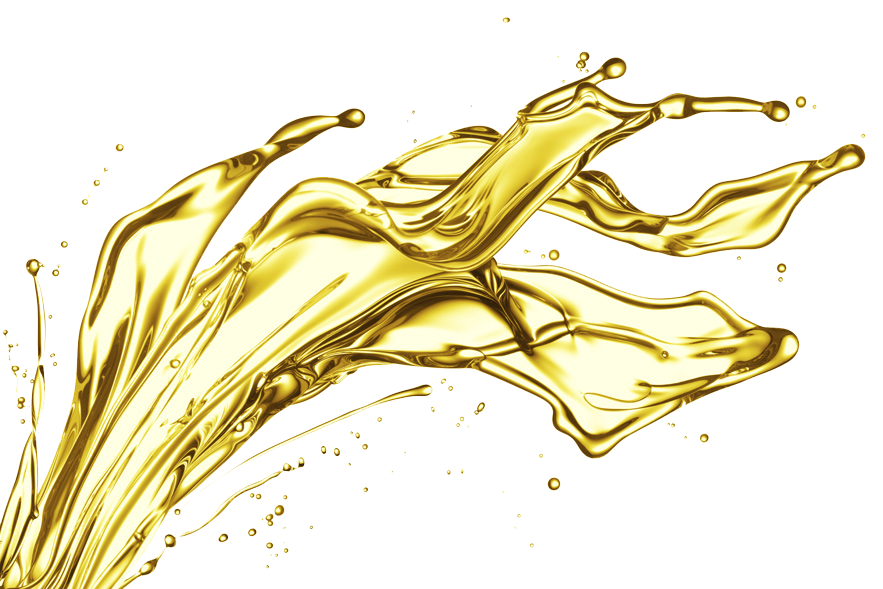
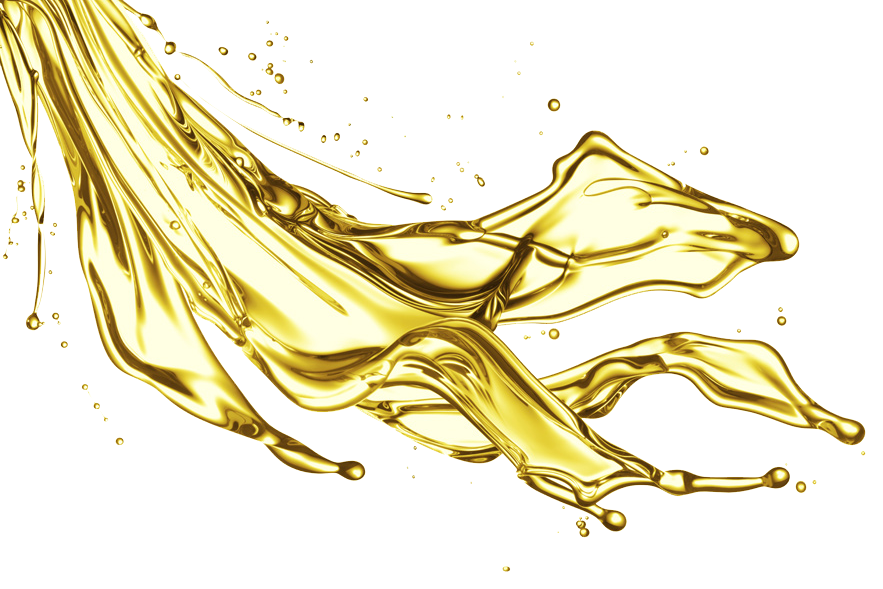
Frontend for auth pages done

diff --git a/app/(auth)/sign-up.tsx b/app/(auth)/sign-up.tsx
@@ -1,10 +1,63 @@
-import { View, Text, ScrollView } from 'react-native'
-import React from 'react'
+import { View, Text, ScrollView, Image } from 'react-native'
+import React, { useState } from 'react'
+import { top } from '@/assets'
+import InputField from '@/components/InputField'
+import CustomButton from '@/components/CustomButton'
+import { Link } from 'expo-router'
+import OAuth from '@/components/OAuth'
 
 const SignUp = () => {
+  const [form, setForm] = useState({
+    name: "",
+    email: "",
+    password: ""
+  })
+  const onSignUpPress = () => {
+
+  }
   return (
-    <ScrollView>
-      <Text>SignUp</Text>
+    <ScrollView className='flex bg-white' showsVerticalScrollIndicator={false}>
+      <View className='flex-1 bg-white'>
+        <View className='relative w-full h-[250px]'>
+          <Image 
+            source={top} 
+            className='z-0 w-full h-[250px]'
+          />
+          <Text className='text-xl font-semibold text-black absolute bottom-5 left-5'>Create Your Account</Text>
+        </View>
+        <View className='p-5'>
+          <InputField
+            label="Username"
+            placeholder="Enter your name"
+            value={form.name}
+            onChangeText={(v:string) => setForm({...form, name: v})}
+          />
+          <InputField
+            label="Email"
+            placeholder="Enter your email"
+            value={form.email}
+            onChangeText={(v:string) => setForm({...form, email: v})}
+          />
+          <InputField
+            label="Passwoord"
+            placeholder="Enter your password"
+            value={form.password}
+            onChangeText={(v:string) => setForm({...form, password: v})}
+            secureTextEntry={true}
+          />
+          <CustomButton 
+            title="Sign Up"
+            className='mt-6'
+            onPress={onSignUpPress}
+          />
+          <OAuth />
+          <Link href="/(auth)/sign-in" className='text-md text-center'>
+            <Text>Already have an account? </Text>
+            <Text className='text-outline'>Log In</Text>
+          </Link>
+        </View>
+        {/* Verification */}
+      </View>
     </ScrollView>
   )
 }

diff --git a/app/(auth)/sign-in.tsx b/app/(auth)/sign-in.tsx
@@ -1,11 +1,57 @@
-import { View, Text } from 'react-native'
-import React from 'react'
+import { View, Text, Image, ScrollView } from 'react-native'
+import React, { useState } from 'react'
+import { top } from '@/assets'
+import InputField from '@/components/InputField'
+import CustomButton from '@/components/CustomButton'
+import OAuth from '@/components/OAuth'
+import { Link } from 'expo-router'
 
 const SignIn = () => {
+  const [form, setForm] = useState({
+    email: "",
+    password: ""
+  })
+  const onSignInPress = () => {
+
+  }
   return (
-    <View>
-      <Text>SignIn</Text>
-    </View>
+    <ScrollView className='flex bg-white' showsVerticalScrollIndicator={false}>
+      <View className='flex-1 bg-white'>
+        <View className='relative w-full h-[250px]'>
+          <Image 
+            source={top} 
+            className='z-0 w-full h-[250px]'
+          />
+          <Text className='text-xl font-semibold text-black absolute bottom-5 left-5'>Welcome back</Text>
+        </View>
+        <View className='p-5'>
+          <InputField
+            label="Email"
+            placeholder="Enter your email"
+            value={form.email}
+            onChangeText={(v:string) => setForm({...form, email: v})}
+          />
+          <InputField
+            label="Passwoord"
+            placeholder="Enter your password"
+            value={form.password}
+            onChangeText={(v:string) => setForm({...form, password: v})}
+            secureTextEntry={true}
+          />
+          <CustomButton 
+            title="Sign Up"
+            className='mt-6'
+            onPress={onSignInPress}
+          />
+          <OAuth />
+          <Link href="/(auth)/sign-up" className='text-md text-center'>
+            <Text>Don't have an account? </Text>
+            <Text className='text-outline'>Sign Up</Text>
+          </Link>
+        </View>
+        {/* Verification */}
+      </View>
+    </ScrollView>
   )
 }
 export default SignIn

diff --git a/components/InputField.tsx b/components/InputField.tsx
@@ -1,0 +1,35 @@
+import { View, Text, KeyboardAvoidingView, TouchableWithoutFeedback, TextInput, Platform, Keyboard } from 'react-native'
+import React from 'react'
+import { InputFieldProps } from '@/types/type'
+
+const InputField = ({
+    label,
+    labelStyle,
+    secureTextEntry=false,
+    containerStyle,
+    inputStyle,
+    iconStyle,
+    className,
+    ...props
+    } : InputFieldProps) => {
+  return (
+    <KeyboardAvoidingView behavior={Platform.OS == "ios" ? "padding" : "height"}>
+        <TouchableWithoutFeedback onPress={Keyboard.dismiss}>
+            <View className='my-2 w-full'>
+                <Text className={`text-lg font-semibold mb-3 ${labelStyle}`}>
+                    {label}
+                </Text>
+                <View className={`flex flex-row justify-start items-center relative bg-neutral-100 rounded-full border border-neutral-100 focus:border-outline ${containerStyle}`}>
+                    <TextInput 
+                        className={`rounded-full p-4 font-semibold  text-[15px] flex-1 ${inputStyle} text-left`}
+                        secureTextEntry={secureTextEntry}
+                        {...props}
+                    />
+                </View>
+            </View>
+        </TouchableWithoutFeedback>
+    </KeyboardAvoidingView>
+  )
+}
+
+export default InputField

diff --git a/components/OAuth.tsx b/components/OAuth.tsx
@@ -1,0 +1,29 @@
+import { View, Text, TouchableOpacity } from 'react-native'
+import React from 'react'
+import CustomButton from './CustomButton'
+import { Ionicons } from '@expo/vector-icons'
+
+const OAuth = () => {
+  const handleGoogleSignIn = () => {
+    
+  }
+  return (
+    <View>
+      <View className='flex flex-row justify-center items-center mt-4 gap-x-3'>
+        <View className='flex-1 h-[1px] bg-outline' />
+        <Text>Or</Text>
+        <View className='flex-1 h-[1px] bg-outline' />
+      </View>
+      <CustomButton
+        title="Log in with Google"
+        className='mt-5 w-full shadow-none'
+        IconLeft={() => (<Ionicons name="logo-google" size={20} style={{marginRight: 4}} />)}
+        bgVariant='outline'
+        textVariant='primary'
+        onPress={handleGoogleSignIn}
+      />
+    </View>
+  )
+}
+
+export default OAuth

diff --git a/types/type.d.ts b/types/type.d.ts
@@ -8,3 +8,13 @@ declare interface ButtonProps extends TouchableOpacityProps {
     IconRight?: React.ComponentType<any>;
     className?: string;
 }
+declare interface InputFieldProps extends TextInputProps {
+    label: string;
+    icon?: any;
+    secureTextEntry?: boolean;
+    labelStyle?: string;
+    containerStyle?: string;
+    inputStyle?: string;
+    iconStyle?: string;
+    className?: string;
+}

diff --git a/constants/index.ts b/constants/index.ts
@@ -16,7 +16,7 @@ export const onBoarding = [
     {
         id: 3,
         title: "Order now",
-        desription: "Create an account and get fuel delivered to you now. \nClick get started now",
+        desription: "Create an account and get fuel delivered to you now. \nClick get started",
         image: onboarding3,
     }
 ]
